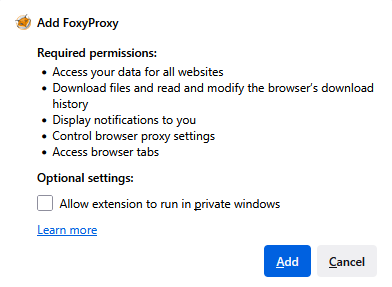
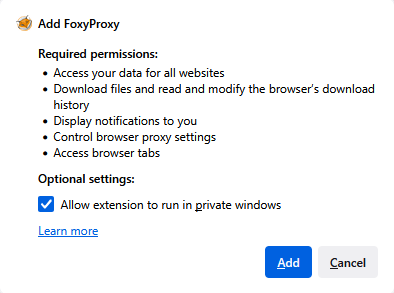
Edit to make instructions universal.

diff --git a/src/guides/foxyproxy.md b/src/guides/foxyproxy.md
@@ -18,7 +18,7 @@ In the pop-up window, **click** on the `Add extension` button.
 
 To install the browser extension, launch the Firefox browser, navigate to [https://addons.mozilla.org/en-US/firefox/addon/foxyproxy-standard/](https://addons.mozilla.org/en-US/firefox/addon/foxyproxy-standard/), and click on the `Add to Firefox` button.
 
-In the pop-up window, **click** on the `Add` button.
+In the pop-up window, select `Allow extension to run in private windows`, and then **click** on the `Add` button.
 
 <img alt="Add FoxyProxy pop-up window." src="/_images/firefox_add_foxyproxy.png" center/>
 
